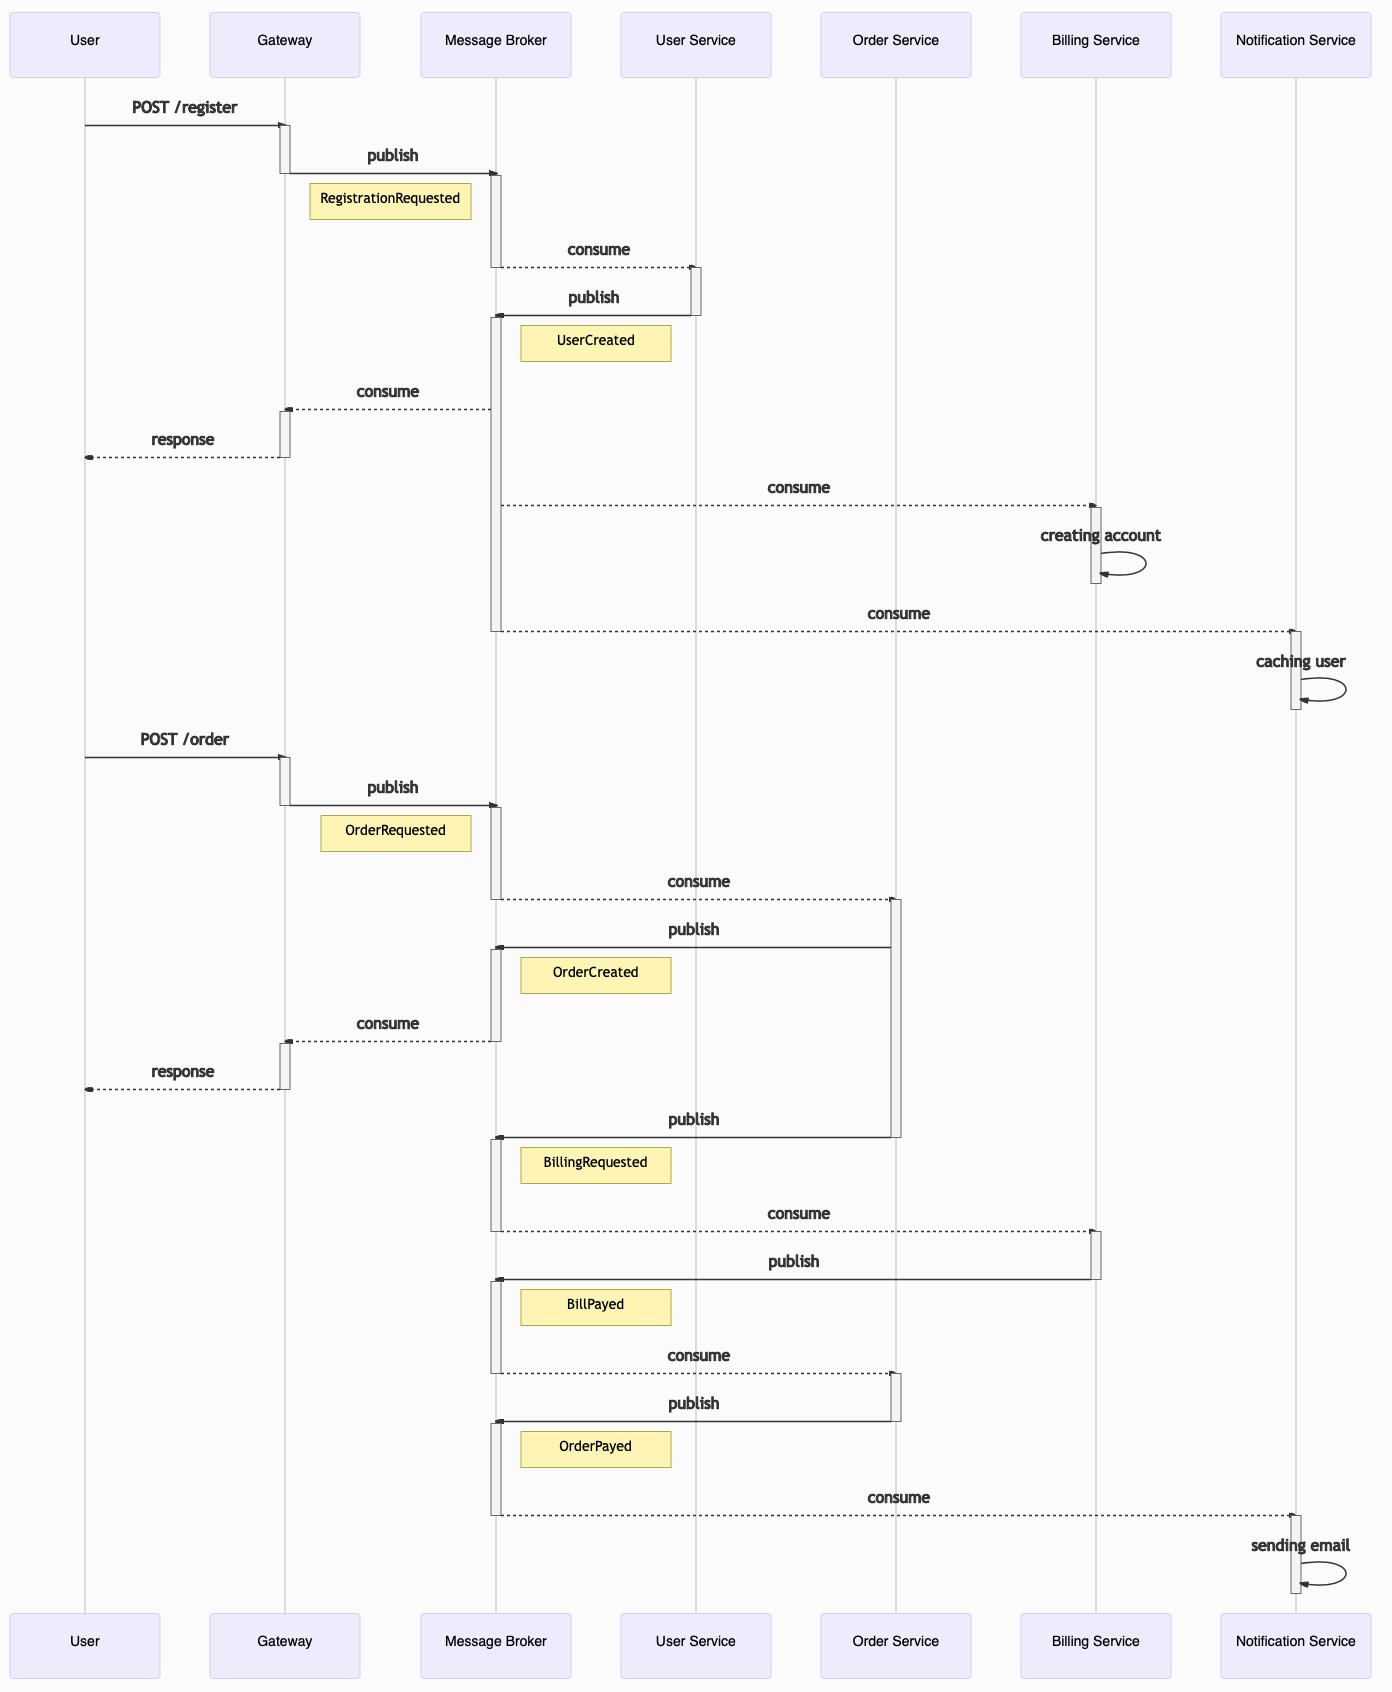
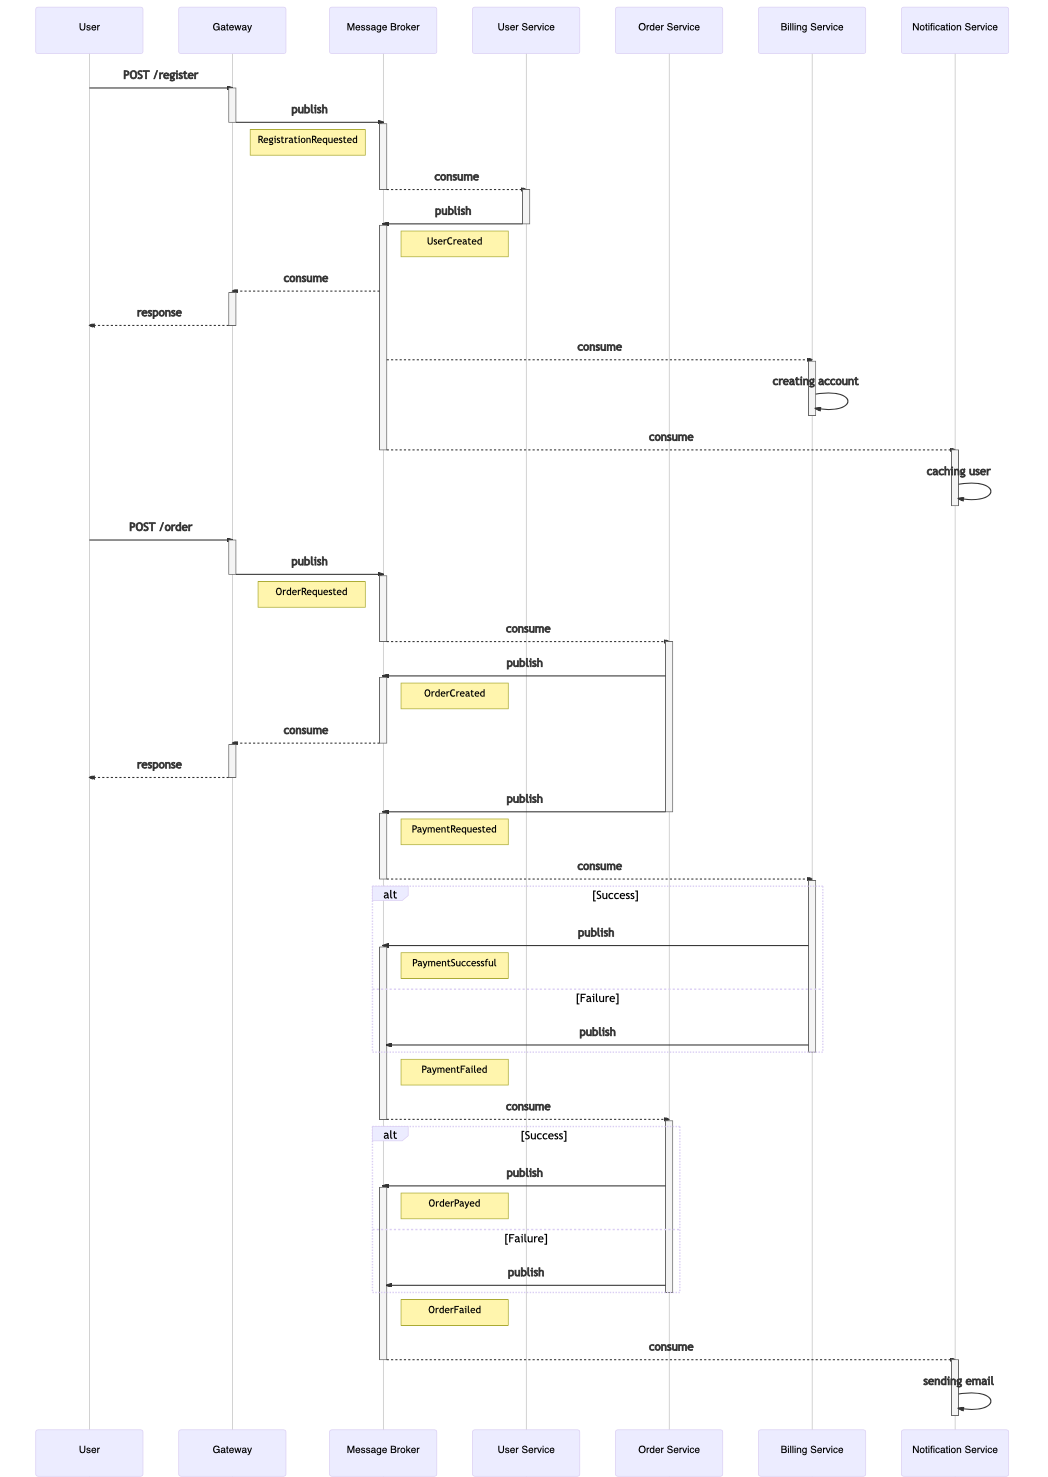
event collaboration 2

diff --git a/15/Event Collaboration/scheme.md b/15/Event Collaboration/scheme.md
@@ -55,21 +55,31 @@ deactivate Gateway
 Order Service->>Message Broker: publish
 deactivate Order Service
 activate Message Broker
-Note right of Message Broker: BillingRequested
+Note right of Message Broker: PaymentRequested
 Message Broker-->>Billing Service: consume
 deactivate Message Broker
 activate Billing Service
+alt Success
 Billing Service->>Message Broker: publish
-deactivate Billing Service
 activate Message Broker
-Note right of Message Broker: BillPayed
+Note right of Message Broker: PaymentSuccessful
+else Failure
+Billing Service->>Message Broker: publish
+end
+deactivate Billing Service
+Note right of Message Broker: PaymentFailed
 Message Broker-->>Order Service: consume
 deactivate Message Broker
 activate Order Service
+alt Success
 Order Service->>Message Broker: publish
-deactivate Order Service
 activate Message Broker
 Note right of Message Broker: OrderPayed
+else Failure
+Order Service->>Message Broker: publish
+end
+deactivate Order Service
+Note right of Message Broker: OrderFailed
 Message Broker-->>Notification Service: consume
 deactivate Message Broker
 activate Notification Service
